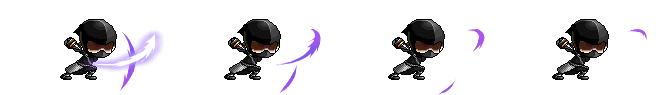
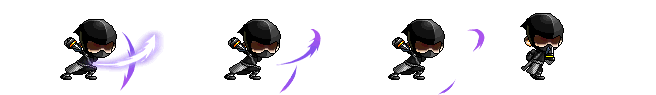
Added h001 unit

Changed region(s): [[0.7927, 0.1263, 1.0, 0.8421]]

diff --git a/spawns.js b/spawns.js
@@ -42,7 +42,7 @@ function spawnUnit(game, x, y, unitcode, side = NEUTRAL) {
                                     3, 0.2, 3, groundPoints, collisionBox, false);
             attack.effects[2] = function(that) {
                 castSkill(that.game, that.x + 50, that.y + 47, that.unit, 00000, 1,
-                        undefined, 93, 45, 0.1);};
+                        undefined, 93, 45, 0.1, false);};
 
             groundPoints = [{x: 55, y: 120}];
             groundPoints[2] = {x: 55, y: 150};
@@ -56,7 +56,7 @@ function spawnUnit(game, x, y, unitcode, side = NEUTRAL) {
             });
             attack2.addEffect (3, function (that) {
                 that.unit.velocity.x = 0;
-                castSkill(that.game, that.x + 34, that.y + 13, that.unit, 00002, 2);
+                castSkill(that.game, that.x + 34, that.y + 13, that.unit, 00002, 1.5);
             });
 
             groundPoints = [{x: 50, y: 95}];
@@ -85,7 +85,72 @@ function spawnUnit(game, x, y, unitcode, side = NEUTRAL) {
                     that.changeAction("jump");
             }
             break;
-        
+
+        case "h001":
+            unit = new Unit(game, x, y, unitcode, side);
+            var groundPoints = [{x: 5, y: 67}];
+            var collisionBox = [{x: 5, y: 0, width: 40, height: 67}];
+            var walk = new Action(game, unit, AM.getAsset("./img/unit/h001/walk.png"),
+                                    4, 0.07, 4, groundPoints, collisionBox, true);
+            walk.startEffect = function() {this.unit.velocity.x = this.unit.movementspeed};
+            walk.endEffect = function() {this.unit.velocity.x = 0};
+
+            groundPoints = [{x: 5, y: 67}];
+            collisionBox = [{x: 5, y: 0, width: 40, height: 67}];
+            var jump = new Action(game, unit, AM.getAsset("./img/unit/h001/jump.png"),
+                                    1, 0.1, 1, groundPoints, collisionBox, true);
+
+            groundPoints = [{x: 26, y: 80}];
+            collisionBox = [{x: 26, y: 20, width: 46, height: 60}];
+            var attack = new Action(game, unit, AM.getAsset("./img/unit/h001/attack.png"),
+                                    4, 0.05, 8, groundPoints, collisionBox, false);
+            var effect = function(that) {
+                castSkill(that.game, that.x + 60, that.y + 30, that.unit, 00005, 0.25);};
+            attack.effects[2] = effect;
+            attack.effects[3] = effect;
+            attack.effects[4] = effect;
+            attack.effects[5] = effect;
+
+            // groundPoints = [{x: 55, y: 120}];
+            // groundPoints[2] = {x: 55, y: 150};
+            // groundPoints[3] = {x: 55, y: 120};
+            // collisionBox = [{x: 20, y: 20, width: 60, height: 70}];
+            // var attack2 = new Action(game, unit, AM.getAsset("./img/unit/h000/jumpattack_right.png"),
+            //                         4, 0.2, 4, groundPoints, collisionBox, false, 5);
+            // attack2.addEffect (2, function (that) {
+            //     var minus = that.unit.lockedTarget.velocity.x;
+            //     that.unit.velocity.x = 900 + (minus * 2);
+            // });
+            // attack2.addEffect (3, function (that) {
+            //     that.unit.velocity.x = 0;
+            //     castSkill(that.game, that.x + 34, that.y + 13, that.unit, 00002, 1.5);
+            // });
+
+            groundPoints = [{x: 60, y: 108}];
+            var die = new Action(game, unit, AM.getAsset("./img/unit/h001/die.png"),
+                                    4, 0.1, 4, groundPoints, collisionBox, false, -1);
+            die.startEffect = function() {this.unit.velocity.x = -this.unit.movementspeed;};
+            die.endEffect = function() {this.unit.removeFromWorld = true;};
+
+            unit.actions["walk"] = walk;
+            unit.actions["jump"] = jump;
+            unit.actions["attack"] = attack;
+ //           unit.actions["attack2"] = attack2;
+            unit.actions["die"] = die;
+            unit.defaultAction = walk;
+            unit.actionHandler = function(that) {
+                if (!that.gravity) {
+                    if (that.currentAction.interruptible || that.currentAction.isDone()) {
+                        var collisedEnemy = that.checkEnemyInRange();
+                        if (collisedEnemy.has(0)) that.changeAction("attack");
+   //                     else if (collisedEnemy.has(1) && attack2.checkCooldown()) that.changeAction("attack2");
+                        else that.changeAction("walk");
+                    }
+                } else
+                    that.changeAction("jump");
+            }
+            break;
+
         case "h100":
             unit = new Unit(game, x, y, unitcode, side);
             var groundPoints = [{x: 32, y: 77}];
@@ -113,7 +178,7 @@ function spawnUnit(game, x, y, unitcode, side = NEUTRAL) {
                                     7, 0.1, 14, groundPoints, collisionBox, false);
             var effect = function(that) {
                 castSkill(that.game, that.x + 40, that.y, that.unit, 00000, 0.25,
-                        undefined, 502, 304, 0.1);};
+                        undefined, 502, 304, 0.1, true);};
             var effect2 = function (that) {
                 castSkill(that.game, that.x, that.y, that.unit, 'h1000', 0);};
             attack.effects[0] = effect2;
@@ -133,7 +198,7 @@ function spawnUnit(game, x, y, unitcode, side = NEUTRAL) {
                                     13, 0.1, 13, groundPoints, collisionBox, false, 5);
             effect = function(that) {
                 castSkill(that.game, that.x, that.y + 105, that.unit, 00000, 1,
-                        undefined, 635, 166, 0.1);};
+                        undefined, 635, 166, 0.1, true);};
             effect2 = function (that) {
                 castSkill(that.game, that.x, that.y, that.unit, 'h1001', 0);};
             attack3.effects[0] = effect2;     
@@ -195,7 +260,7 @@ function spawnUnit(game, x, y, unitcode, side = NEUTRAL) {
                                     8, 0.15, 8, groundPoints, collisionBox, false);
             attack.effects[4] = function(that) {
                                     castSkill(that.game, that.x + 0, that.y + 50, that.unit, 00000, 1,
-                                    undefined,350, 60, 0.3)};
+                                    undefined,350, 60, 0.3, true)};
 
             groundPoints = [];
             collisionBox = [];
@@ -250,7 +315,7 @@ function spawnUnit(game, x, y, unitcode, side = NEUTRAL) {
                             function(unit) { unit.velocity.x = unit.movementspeed / (-unit.movementspeed) * 200;
                                             unit.velocity.y = -300;
                                             unit.changeAction("jump");},
-                            160, 100, 0.4)};
+                            160, 100, 0.4, true)};
 
             groundPoints = [{x: 0, y: 130}];
             var die = new Action(game, unit, AM.getAsset("./img/unit/m010/die.png"),

diff --git a/cast.js b/cast.js
@@ -5,9 +5,9 @@
  * additionalEffect: is the effect after the effect of the skill
  * effect: overwriting the effect of the skill
  */
-function castSkill(game, x, y, unit, skillCode, percentAtt = 2,//You mostly need this
+function castSkill(game, x, y, unit, skillCode, percentAtt = 1,//You mostly need this
                     additionalEffect = function() {}, // little addion
-                    width, height, durationTime, effect) {  //this for customized effect
+                    width, height, durationTime, aoe, effect) {  //this for customized effect
     var skill;
     var nonAnimationSheet = {width: 0, height: 0};
     switch (skillCode) {
@@ -23,9 +23,9 @@ function castSkill(game, x, y, unit, skillCode, percentAtt = 2,//You mostly need
                 };
             }
             skill = new Effect(game, x, y, unit, nonAnimationSheet,
-                                1, durationTime, 1, collisionBox, action, percentAtt, true);
+                                1, durationTime, 1, collisionBox, action, percentAtt, aoe);
             break;
-        case 00001:
+        case 00001: //stab
             var collisionBox = [{x: 0, y: 0, width: 93, height: 45}];
             var action = function(unit) {
                 var damage = percentAtt * this.unit.att;
@@ -33,7 +33,7 @@ function castSkill(game, x, y, unit, skillCode, percentAtt = 2,//You mostly need
                 additionalEffect(unit);
             };
             skill = new Effect(game, x, y, unit, AM.getAsset("./img/effect/00000/stab.png"),
-                                1, 0.1, 1, collisionBox, action, percentAtt);
+                                1, 0.1, 1, collisionBox, action, percentAtt, false);
             break;
         case 00002: //swing
             var collisionBox = [{x: 0, y: 0, width: 164, height: 143}];
@@ -43,7 +43,27 @@ function castSkill(game, x, y, unit, skillCode, percentAtt = 2,//You mostly need
                 additionalEffect(unit);
             };
             skill = new Effect(game, x, y, unit, AM.getAsset("./img/effect/00000/9.swingP1.2_0.png"),
-                                1, 0.1, 1, collisionBox, action, percentAtt);
+                                1, 0.1, 1, collisionBox, action, percentAtt, false);
+            break;
+        case 00005: //shuriken 1
+            var collisionBox = [{x: 0, y: 0, width: 29, height: 29}];
+            var action = function(unit) {
+                var damage = percentAtt * this.unit.att;
+                unit.takeDamage(damage);
+                additionalEffect(unit);
+                this.removeFromWorld = true;
+            };
+
+            var random = Math.floor(Math.random() * 20 - 10);
+            console.log(random);
+
+            skill = new Effect(game, x, y + random, unit, AM.getAsset("./img/effect/00001/shuriken.png"),
+                                2, 0.02, 2, collisionBox, action, percentAtt, false, 100000);
+
+            var direction = unit.data.movementspeed / unit.data.movementspeed;
+            skill.velocity.x = 600 * direction;
+            random = Math.floor(Math.random() * 80 - 40);
+            skill.velocity.y = random;
             break;
        case 'h1000':
             var collisionBox = [{x: 0, y: 0, width: 0, height: 0}];

diff --git a/battle.js b/battle.js
@@ -22,8 +22,18 @@ Battle.prototype.create = function() {
     button.addSheet(AM.getAsset("./img/unit/h000/card_mouseover.png"), "mouseover");
     button.addEventListener("click", function() { 
         var xSpawnLocation = globalGiveMapX(this.game, 100);
-        spawnUnit(this.game, xSpawnLocation, 400, "h000", PLAYER); })
+        spawnUnit(this.game, xSpawnLocation, 400, "h001", PLAYER); 
+    });
     this.game.addEntity(button);
+
+    var button3 = new Button(this.game, AM.getAsset("./img/unit/h000/card.png"), 300, 520);
+    button3.addSheet(AM.getAsset("./img/unit/h000/card_click.png"), "click");
+    button3.addSheet(AM.getAsset("./img/unit/h000/card_mouseover.png"), "mouseover");
+    button3.addEventListener("click", function() { 
+        var xSpawnLocation = globalGiveMapX(this.game, 100);
+        spawnUnit(this.game, xSpawnLocation, 400, "h000", PLAYER); 
+    });
+    this.game.addEntity(button3);
 
     var button2 = new Button(this.game, AM.getAsset("./img/unit/m000/card.png"), 600, 520);
     button2.addSheet(AM.getAsset("./img/unit/m000/card_click.png"), "click");
@@ -31,8 +41,7 @@ Battle.prototype.create = function() {
     button2.addEventListener("click", function() { 
         var xSpawnLocation = globalGiveMapX(this.game, 800);
         spawnUnit(this.game, xSpawnLocation, 400, "m000", ENEMY); 
-    })
-
+    });
     this.game.addEntity(button2);
 
     spawnUnit(this.game, 900, 400, "m010", ENEMY);

diff --git a/main.js b/main.js
@@ -23,6 +23,15 @@ AM.queueDownload("./img/unit/h000/stab_right.png");
 AM.queueDownload("./img/unit/h000/jumpattack_right.png");
 AM.queueDownload("./img/unit/h000/die_right.png");
 
+// AM.queueDownload("./img/unit/h001/card.png");
+// AM.queueDownload("./img/unit/h001/card_mouseover.png");
+// AM.queueDownload("./img/unit/h001/card_click.png");
+AM.queueDownload("./img/unit/h001/stand.png");
+AM.queueDownload("./img/unit/h001/walk.png");
+AM.queueDownload("./img/unit/h001/jump.png");
+AM.queueDownload("./img/unit/h001/attack.png");
+AM.queueDownload("./img/unit/h001/die.png");
+
 AM.queueDownload("./img/unit/h100/stand.png");
 AM.queueDownload("./img/unit/h100/walk.png");
 AM.queueDownload("./img/unit/h100/jump.png");
@@ -61,6 +70,8 @@ AM.queueDownload("./img/ui/start_button_mouseover.png");
 
 AM.queueDownload("./img/effect/00000/stab.png");
 AM.queueDownload("./img/effect/00000/9.swingP1.2_0.png");
+AM.queueDownload("./img/effect/00001/shuriken.png");
+AM.queueDownload("./img/effect/00002/dummy.png");
 
 
 AM.downloadAll(function () {

diff --git a/data/unit_data.js b/data/unit_data.js
@@ -18,15 +18,15 @@ var unitData = {
         range: [{x: 0, y: -90, width: 100, height: 100}, {x: 100, y: -90, width: 150, height: 100}],
     },
     h001: {
-        groundWidth: 50,
+        groundWidth: 35,
         groundHeight: 10,
         health: 60,
         movementspeed: 200,
-        att: 20,
+        att: 5,
         def: 0,
         flying: false,
         //Attacking with x and y are offset from unit's ground hit box
-        range: [{x: 0, y: -90, width: 100, height: 100}, {x: 100, y: -90, width: 150, height: 100}],
+        range: [{x: 0, y: -67, width: 450, height: 100}],
     },
     h100: {
         groundWidth: 50,
@@ -44,7 +44,7 @@ var unitData = {
         groundHeight: 10,
         health: 100,
         movementspeed: -100,
-        att: 20,
+        att: 25,
         def: 0,
         flying: false,
         //Attacking with x and y are offset from unit's ground hit box
